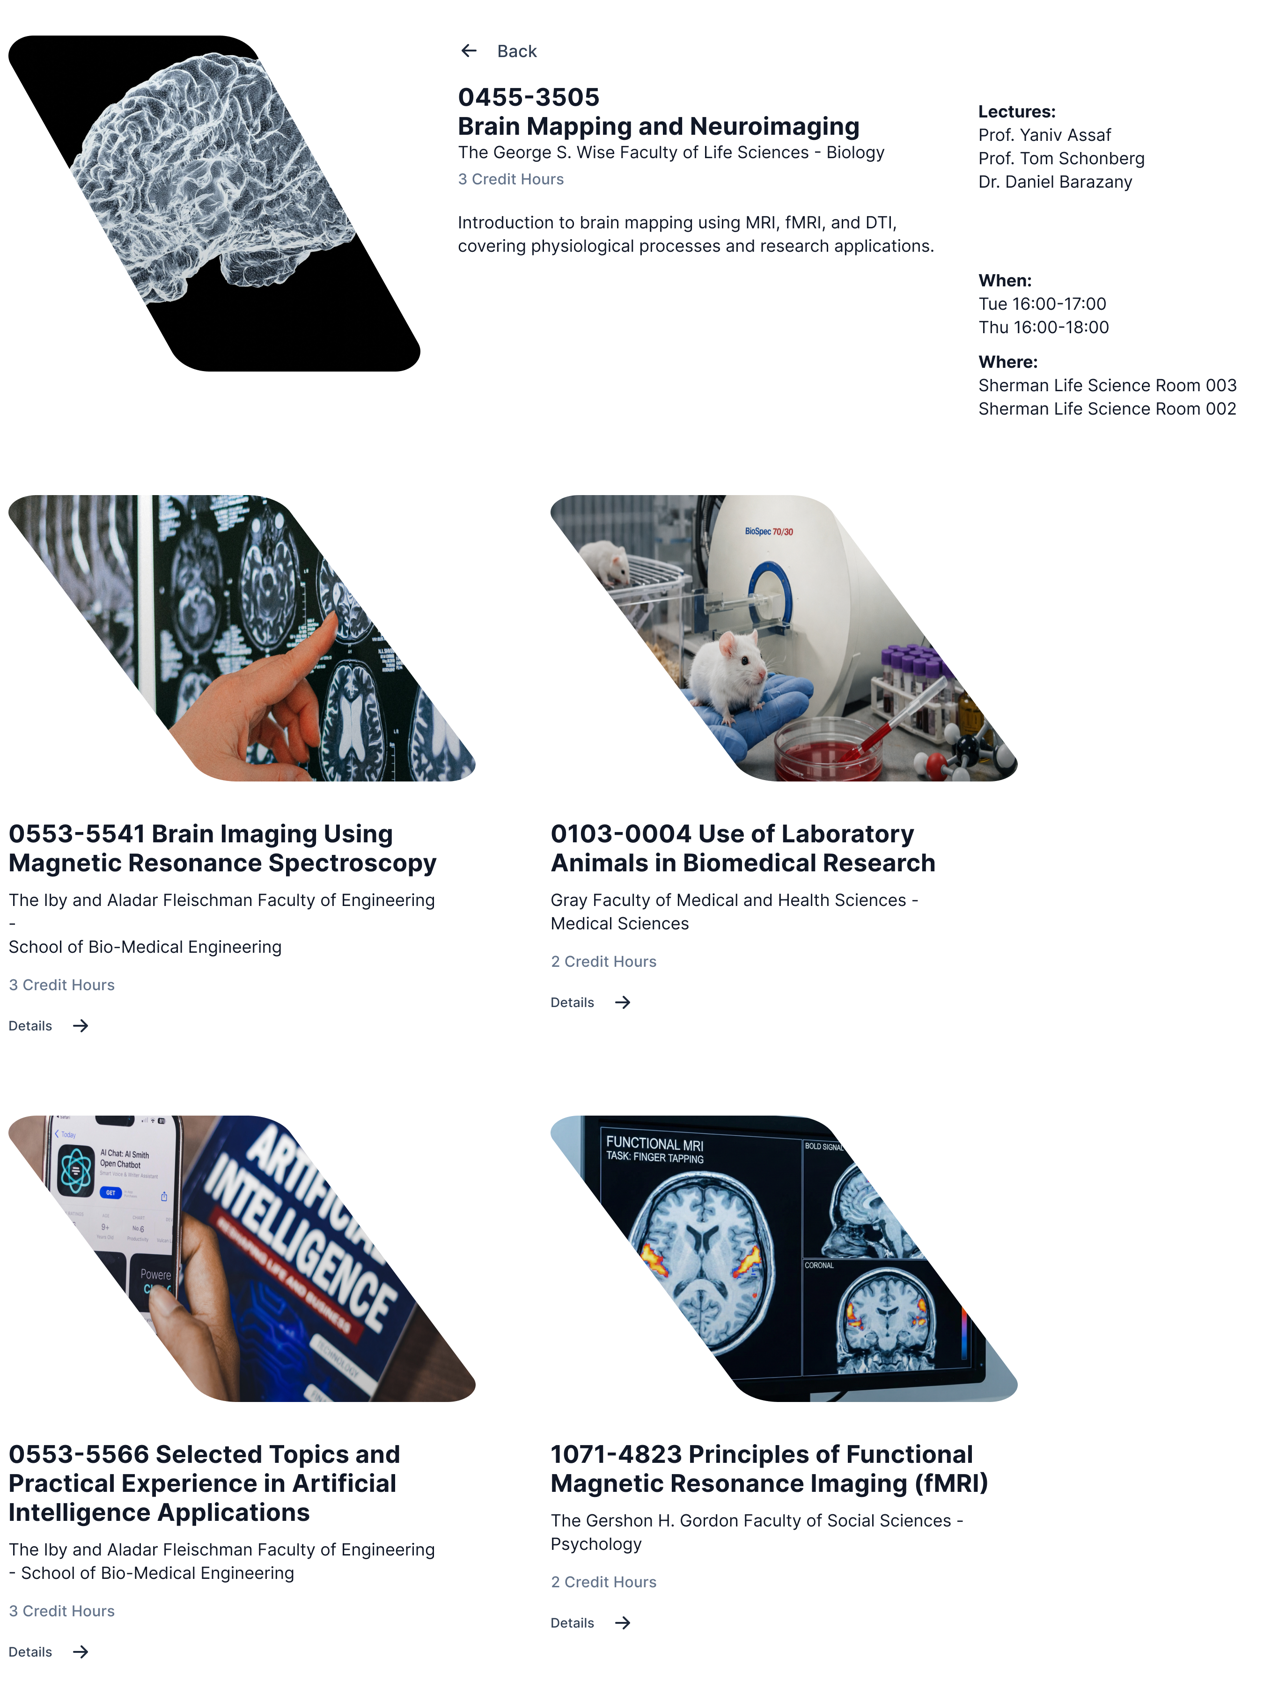
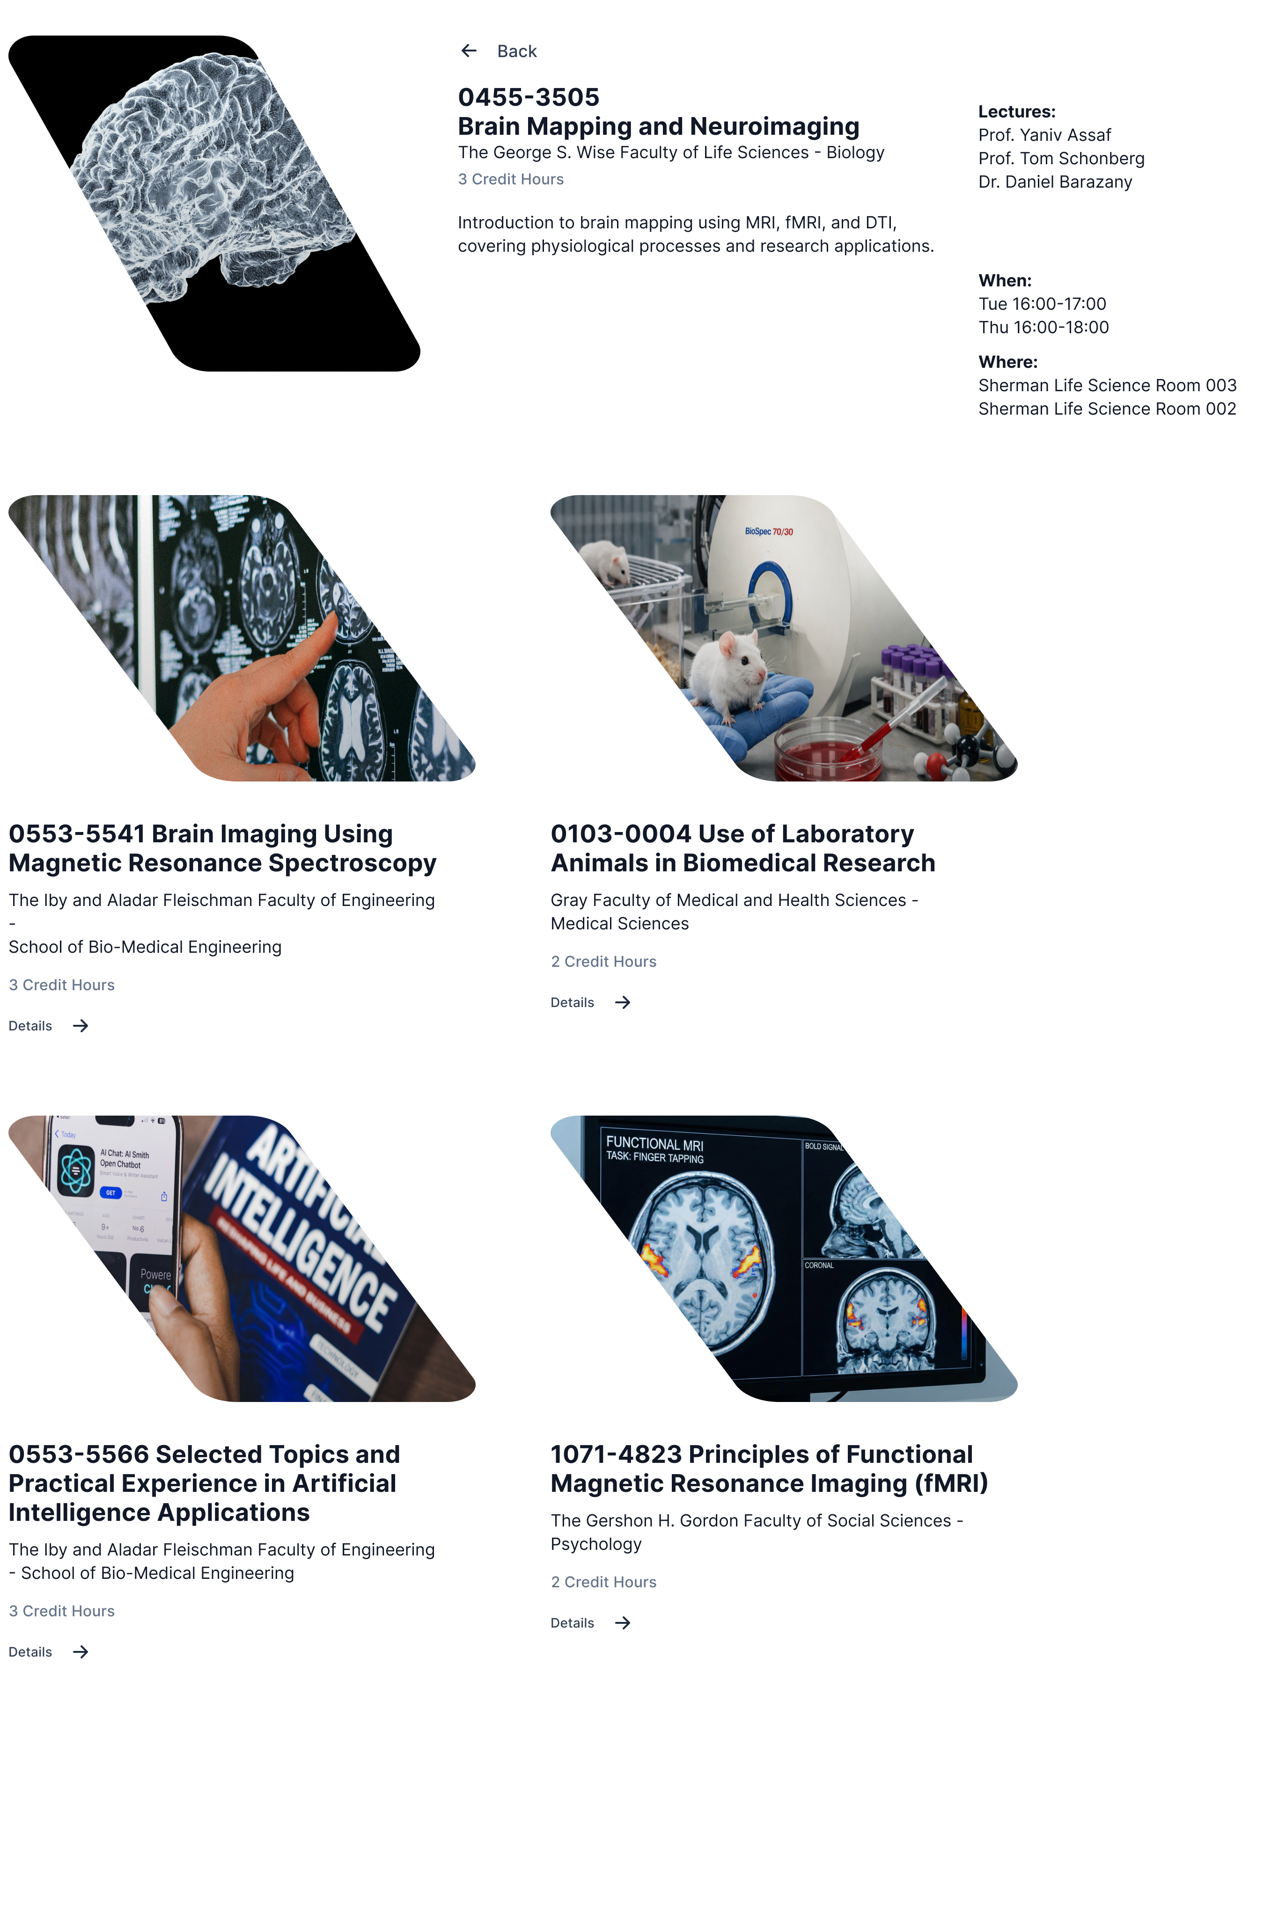
MRI Center: matched-height comparison pair, final captions
Still staged, still do not merge - both upstream bugs remain
unresolved in these new files (confirmed present before use):
orphaned hyphen on the 0553-5541 card in the Figma export, empty
"Credit Hours: -" plus duplicated preview text in the Wix export.

Supersedes both files from the previous commit on this branch:
- mri-courses-figma-expanded.png: same two-row crop, now with 212px
  of pure-white padding below (verified (255,255,255) throughout that
  band) to reach 1264x1906, matching the Wix asset exactly.
- mri-courses-wix-expanded.png: reverted to the two-row version
  (fb5a721b...), also 1264x1906. The earlier 3bd90544... single-row
  crop is discarded.

Height-matching is intentional now - the earlier "don't normalize"
instruction is withdrawn. Both images are pixel-identical in
dimensions, so .h-courses (280px -> 620px) renders them at equal
height AND width (412x620 each), verified via getBoundingClientRect.

Updated captions and alt text to the final copy: Figma names the
three-column horizontal layout, Wix names the "repeater" mechanism
specifically rather than describing the constraint generically.

diff --git a/mri-center.html b/mri-center.html
@@ -265,8 +265,8 @@
 
           <p style="font-family: var(--font-mono); font-size: 12px; color: var(--text-muted); margin: 24px 0 12px;">TAP TO ENLARGE</p>
           <div style="display:flex; flex-wrap:wrap; justify-content:center; align-items:flex-start; gap:24px;">
-            <img class="zoomable" data-group="courses-layout" data-cap="Figma design: the expanded course detail opens as a horizontal row spanning the full grid width." src="./mri-courses-figma-expanded.png" alt="Courses page, Figma design, horizontal detail row spanning the full course grid width" style="max-width:436px; width:100%; display:block; border-radius:10px; border:1px solid var(--border-subtle); box-shadow:var(--shadow-lg);">
-            <img class="zoomable" data-group="courses-layout" data-cap="Shipped Wix build: the repeater can't break out of its own cell, so the same detail expands vertically inside the card's column instead - the constraint changed the layout, not the content." src="./mri-courses-wix-expanded.png" alt="Courses page, live Wix build, vertical in-card detail expansion within a single course card" style="max-width:436px; width:100%; display:block; border-radius:10px; border:1px solid var(--border-subtle); box-shadow:var(--shadow-lg);">
+            <img class="zoomable h-courses" data-group="courses-layout" data-cap="The design opened course details horizontally - a full-width row spanning the grid, with description, teaching staff and logistics in three columns." src="./mri-courses-figma-expanded.png" alt="Courses page, Figma design, course detail expanding as a horizontal row across the full grid width" style="display:block; border-radius:10px; border:1px solid var(--border-subtle); box-shadow:var(--shadow-lg);">
+            <img class="zoomable h-courses" data-group="courses-layout" data-cap="The platform's repeater couldn't break a panel out of its grid cell, so details stack vertically inside the card. The row grows downward and its neighbours hold their place." src="./mri-courses-wix-expanded.png" alt="Courses page, live Wix build, course detail expanding vertically inside a single card's column" style="display:block; border-radius:10px; border:1px solid var(--border-subtle); box-shadow:var(--shadow-lg);">
           </div>
         </section>
 
@@ -367,7 +367,7 @@ article section[id]{scroll-margin-top:8.5rem}
 @media(max-width:900px){.h-onboarding{height:auto;width:100%;max-width:320px}}
 .h-system{height:204px;width:auto;max-width:100%}
 @media(max-width:900px){.h-system{height:auto;width:100%;max-width:320px}}
-.h-courses{height:280px;width:auto;max-width:100%}
+.h-courses{height:620px;width:auto;max-width:100%}
 @media(max-width:900px){.h-courses{height:auto;width:100%;max-width:320px}}
 #lb{position:fixed;inset:0;background:#000;display:none;align-items:center;justify-content:center;flex-direction:column;z-index:9999;padding:24px}
 #lb.on{display:flex}
